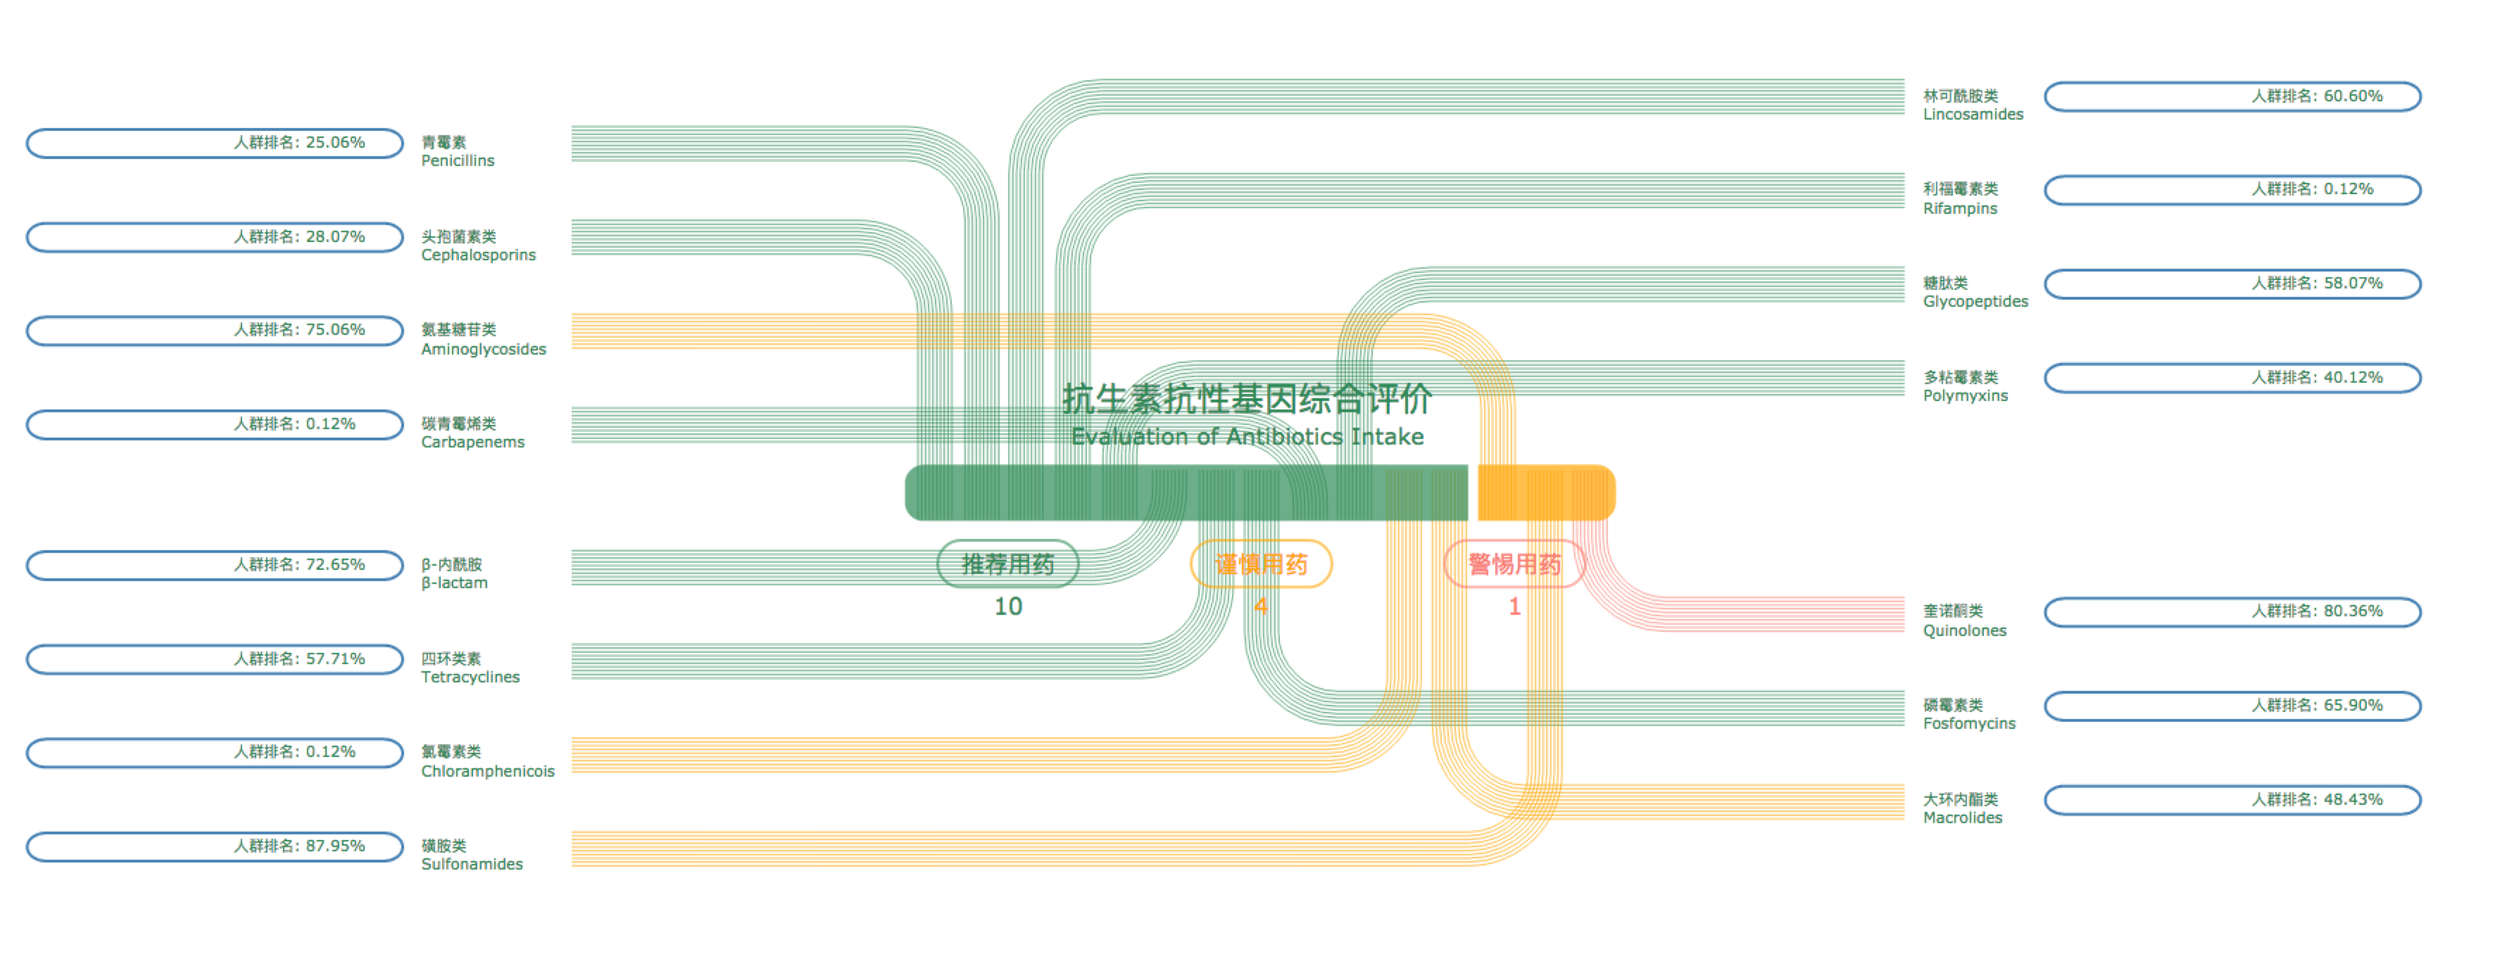
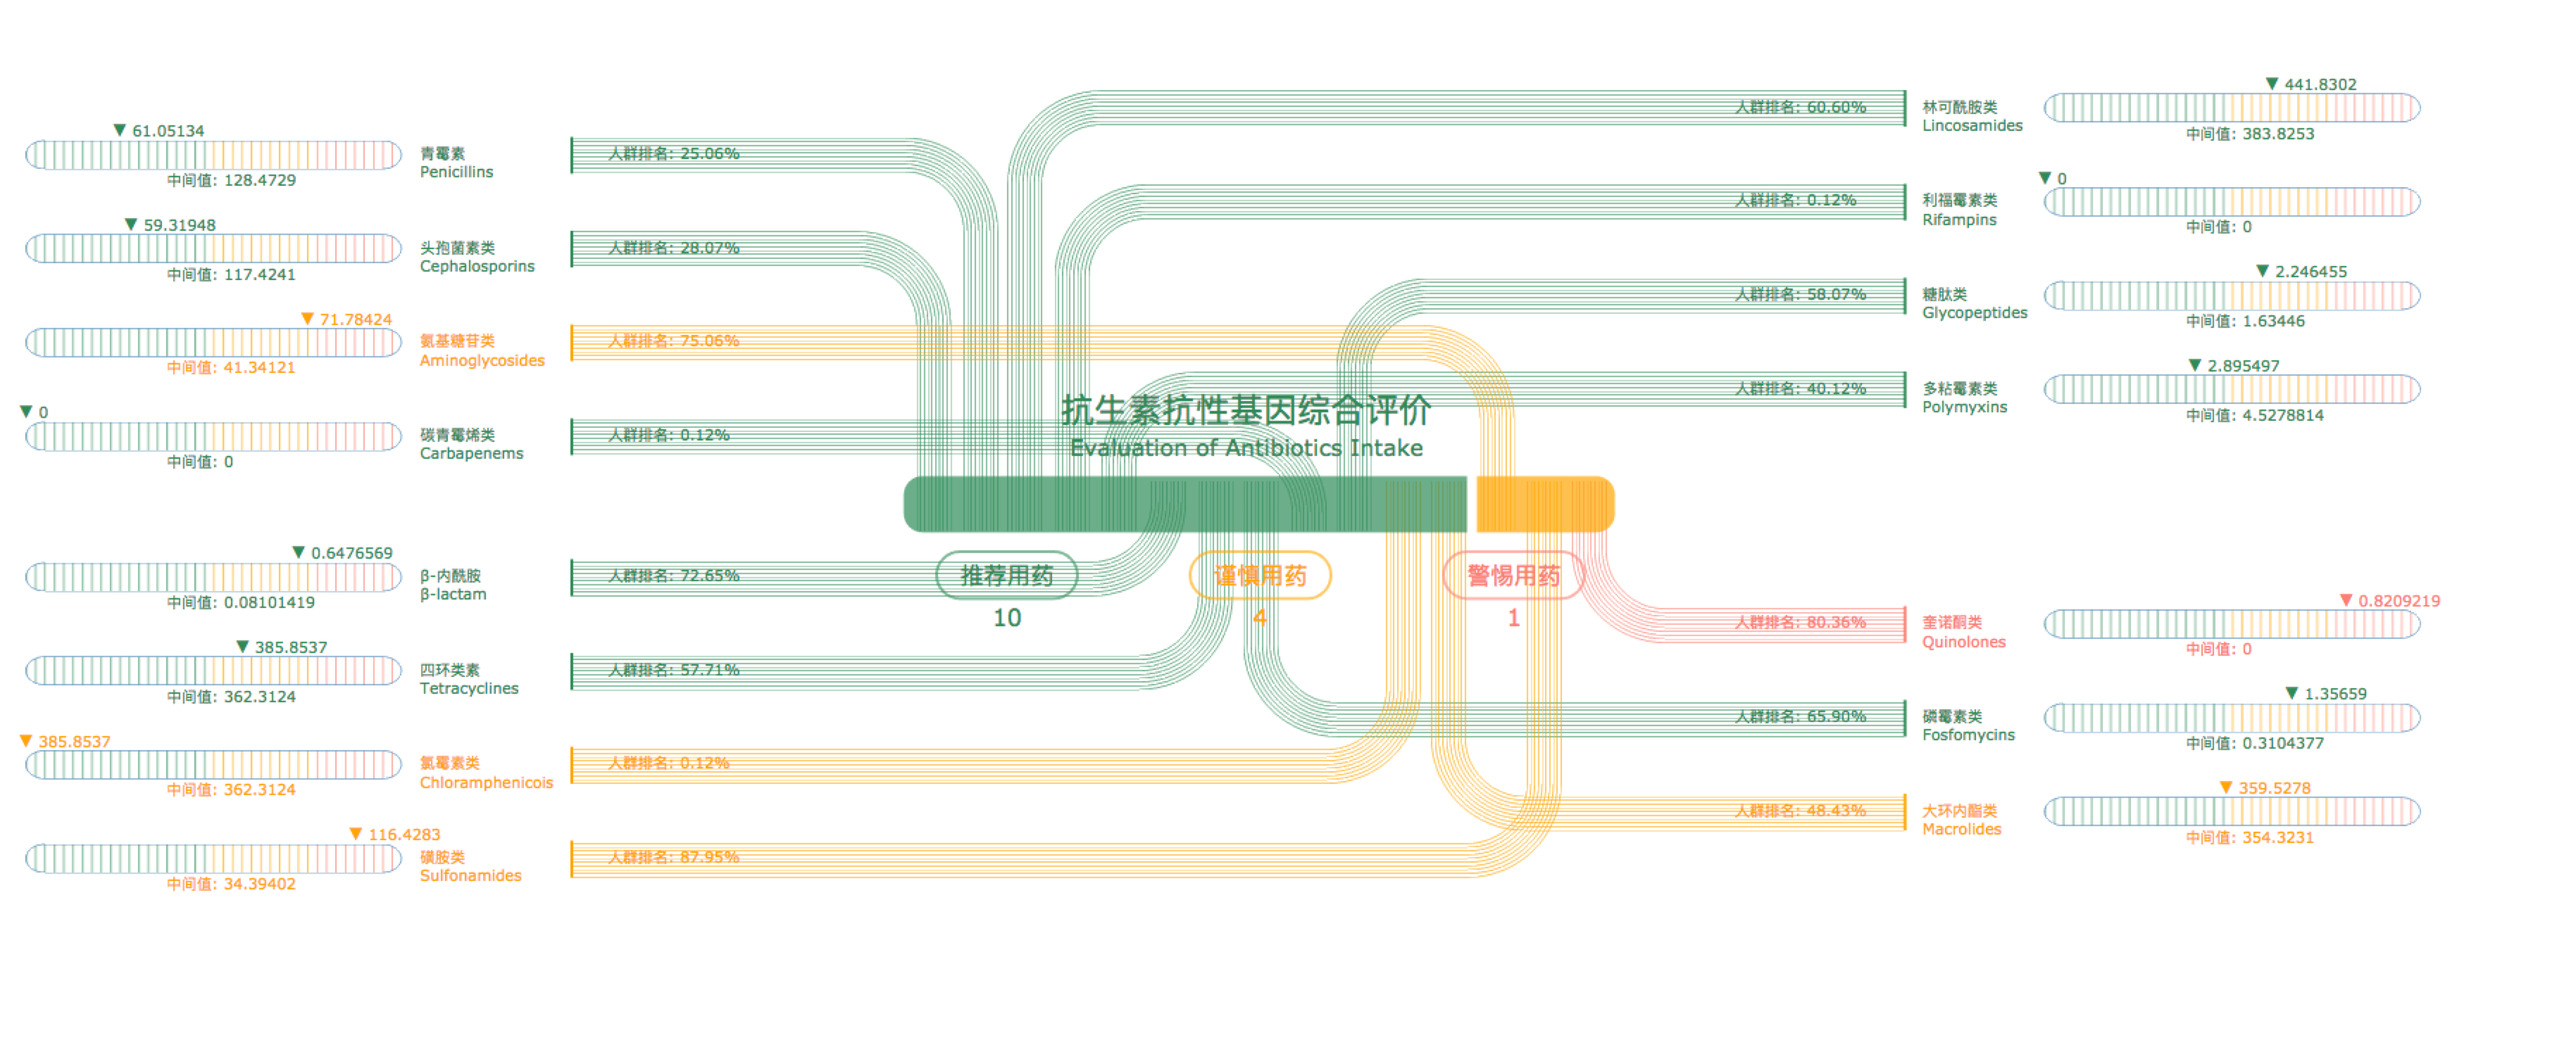
estimate antibiotics done

Changed region(s): [[0.0, 0.0615, 0.9682, 0.9224], [0.0, 0.8609, 0.0312, 0.8917]]

diff --git a/lib/utils/detect.js b/lib/utils/detect.js
@@ -1,5 +1,5 @@
 import D3 from 'd3'
-import range from 'd3-array'
+import { range } from 'd3-array'
 
 d3 = Object.assign({},
     D3,
@@ -19,24 +19,37 @@ export function linearGradient(svg, percent = 40) {
         .append('linearGradient')
         .attr('id', 'GradientRepeat')
         .selectAll('.stop').data(range(0, 1, 1 / percent).concat([1]))
-        .enert()
+        .enter()
         .append('stop')
-        .attr('offset', (d, i) => ())
+        .attr('offset', (d, i) => (d));
 
     return filter
 }
 
 
-export function linearGradient(svg, percent = 40) {
-    var filter = svg.append('defs')
-        .append('linearGradient')
-        .attr('id', 'GradientRepeat')
-        .selectAll('.stop').data(range(0, 1, 1 / percent).concat([1]))
-        .enert()
-        .append('stop')
-        .attr('offset', (d, i) => ())
+export function pattern(svg, inter = [30, 35], percent = 40, width = 400) {
+    var ptn = svg.append('defs')
+        .append('pattern')
+        .attr('id', 'pattern1')
+        .attr('x', '0')
+        .attr('y', '0')
+        .attr('width', '1')
+        .attr('height', '1')
+        .selectAll('rect').data(range(0, 1, 1 / percent))
+        .enter()
+        .append('rect')
+        .attr('width', 1)
+        .attr('height', 30)
+        .attr('x', (d, i) => (d * width))
+        .attr('y', 0)
+        .attr('fill', (d, i) => {
+            let color = 'orange';
+            (i < inter[0]) && (color = 'seagreen');
+            (i > inter[1]) && (color = 'salmon');
+            return color
+        });
 
-    return filter
+    return ptn
 }
 
 export function fill(svg) {

diff --git a/basic.css b/basic.css
@@ -17,7 +17,7 @@ svg {
 }
 
 rect {
-    fill: none;
+    /*fill: none;*/
     pointer-events: all;
 }
 
